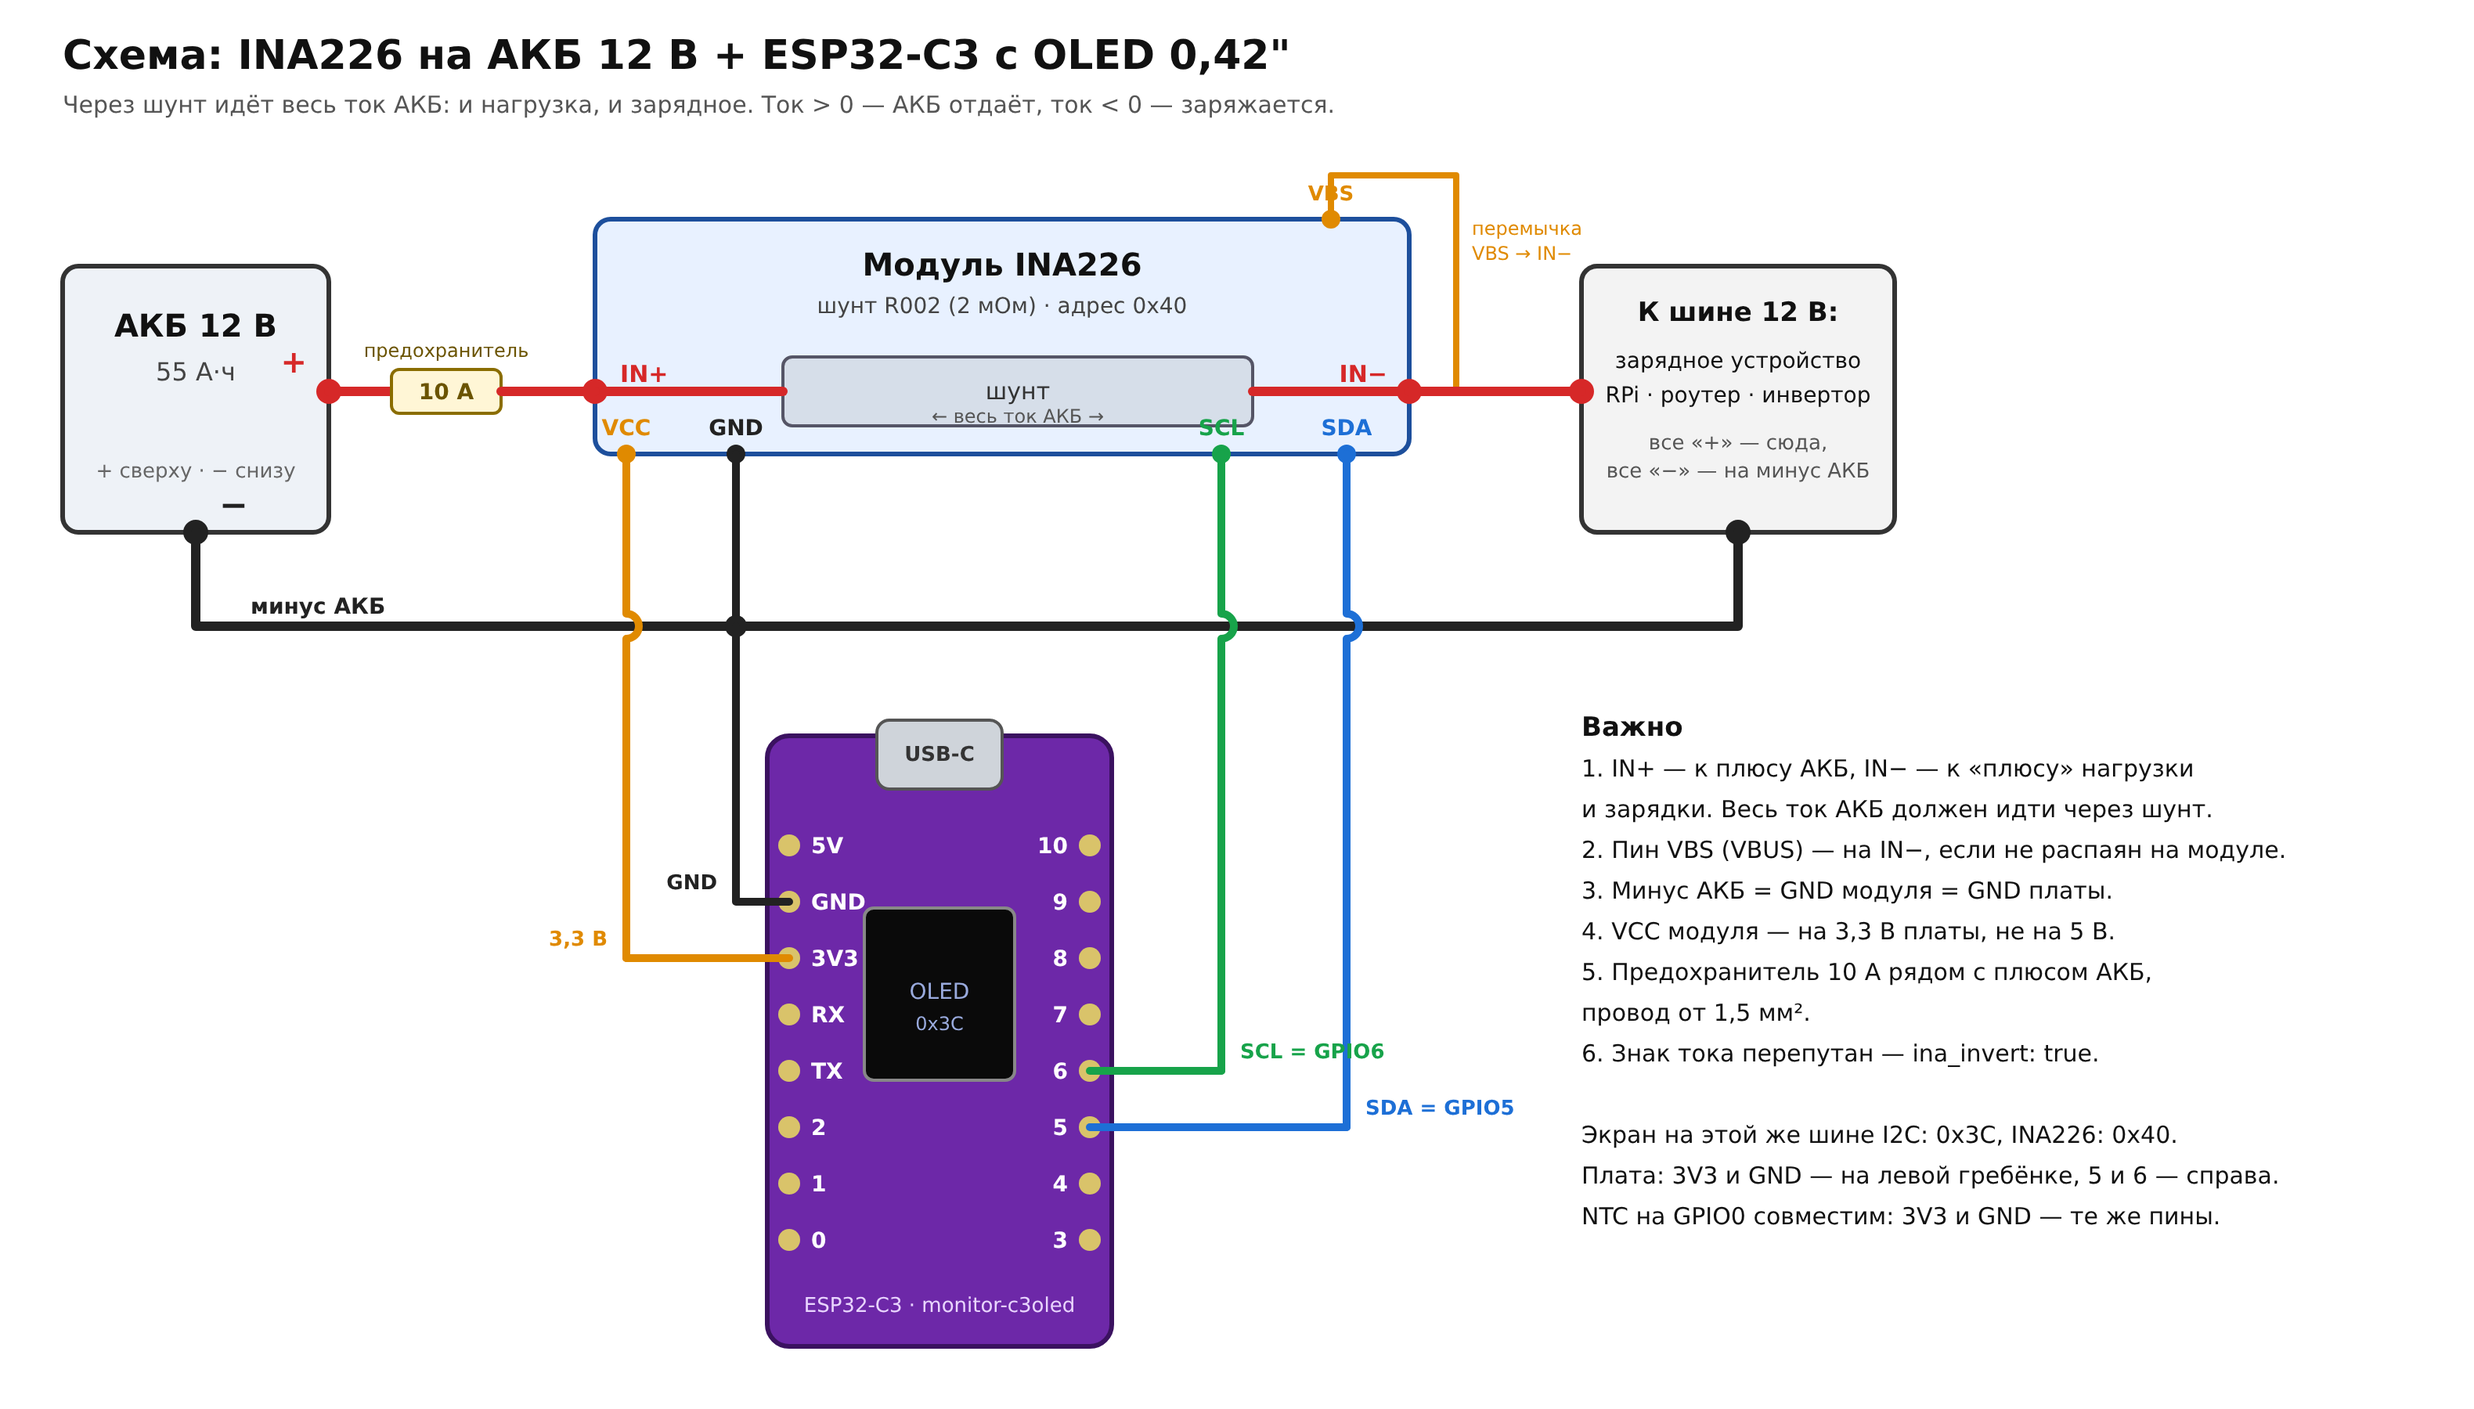
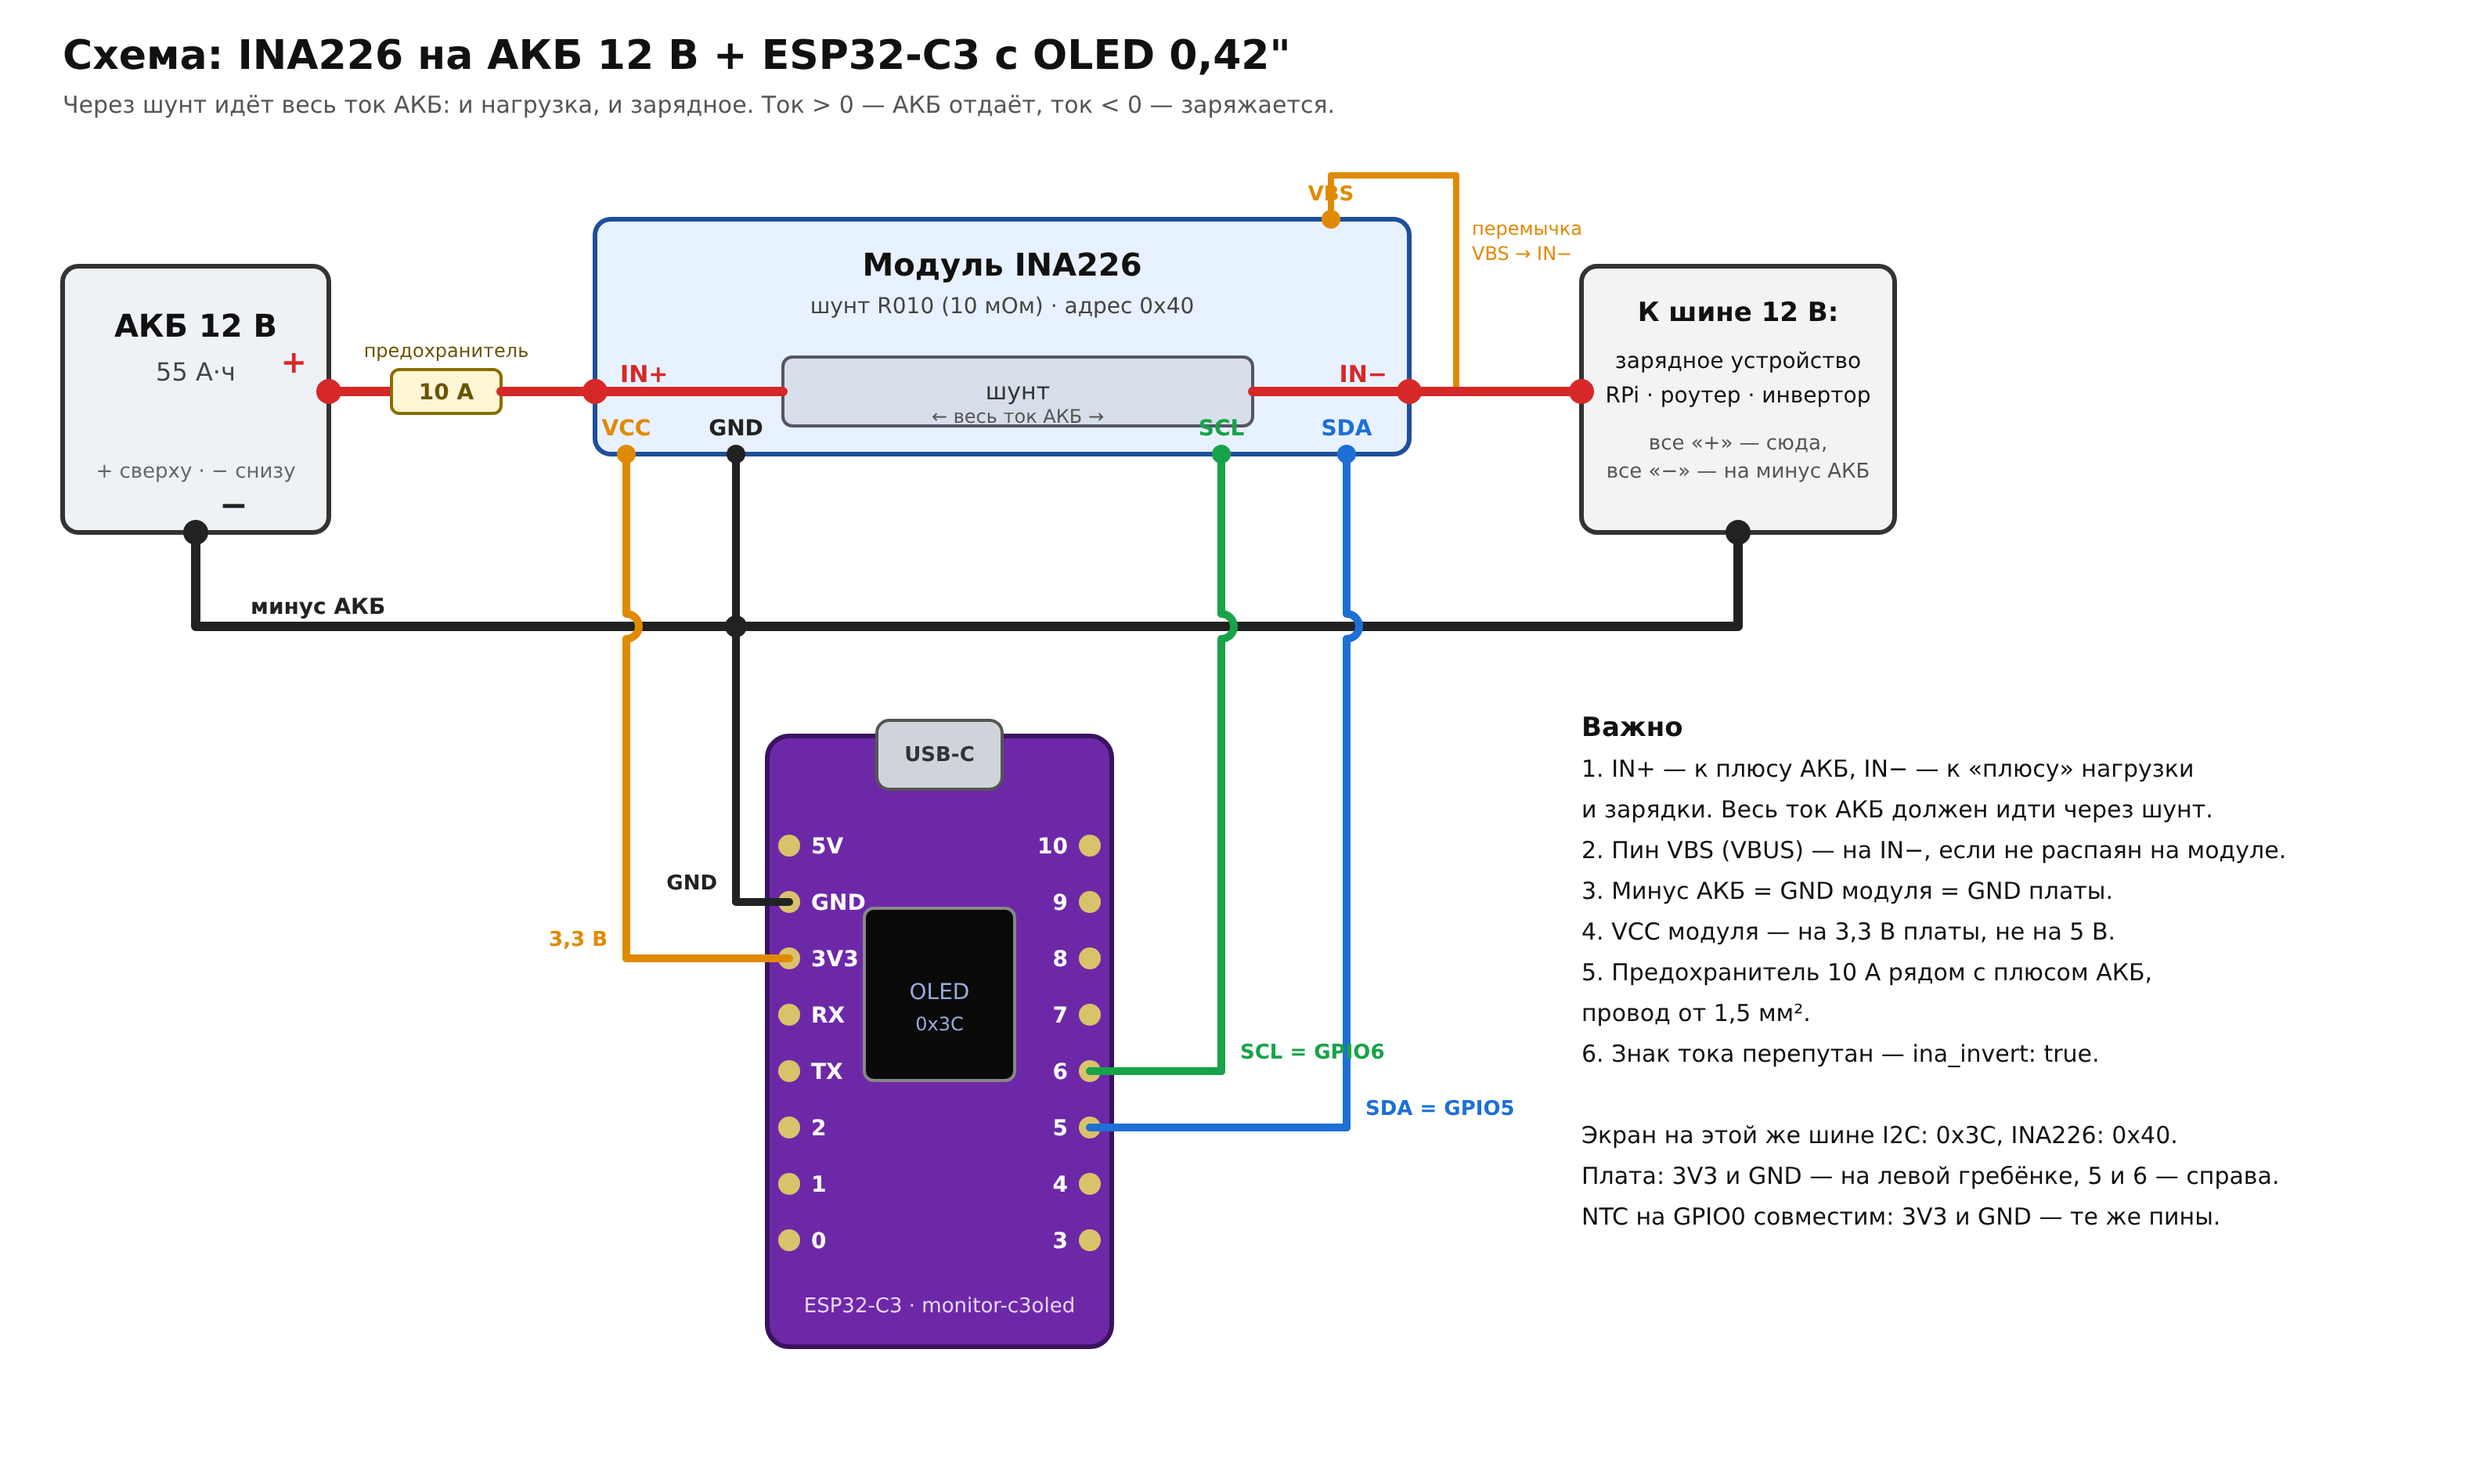
INA226: the default shunt is 10 mOhm (R010), the module sold most often
Claude-Session: https://claude.ai/code/session_01EDqfk9jk64T1fpiWr89srt

diff --git a/firmware/lib/hornet-core/src/Ina226.h b/firmware/lib/hornet-core/src/Ina226.h
@@ -19,9 +19,10 @@
 #ifndef HW_INA_ADDR
 #define HW_INA_ADDR 0x40
 #endif
-// The shunt of the common blue INA226 module is marked R002 (2 mOhm); some have R010 (10 mOhm), set hw.ina_shunt_mohm.
+// The shunt of the common blue INA226 module is marked R010 (10 mOhm, up to +-8 A); with R002 (2 mOhm) set
+// hw.ina_shunt_mohm = 2. R100 (0.1 Ohm) is good only up to 0.8 A.
 #ifndef HW_INA_SHUNT_MOHM
-#define HW_INA_SHUNT_MOHM 2.0
+#define HW_INA_SHUNT_MOHM 10.0
 #endif
 
 namespace hornet {

diff --git a/firmware/README.md b/firmware/README.md
@@ -68,7 +68,7 @@ DS18B20 needs a 4.7 kΩ pull-up from data to 3.3 V (the ready-made modules have 
   NTC is the thermometer: read on `hw.ntc_pin` or A0 (GPIO0 on the C3), published as `temperature`. Wiring: docs/ntc-thermistor.md.
 - INA226 (monitor): a battery's voltage and current on the I2C bus of the screen (GPIO5/GPIO6), found by itself at boot.
   Published as `battery_voltage` (V), `battery_current` (A, plus = the battery gives), `battery_power` (W) and
-  `battery_ah` (Ah out since full). Config `hw.ina_addr`, `ina_shunt_mohm` (default 2), `ina_invert`, `ina_full_v`,
+  `battery_ah` (Ah out since full). Config `hw.ina_addr`, `ina_shunt_mohm` (default 10), `ina_invert`, `ina_full_v`,
   `ina_full_a`. Wiring: docs/ina226-battery.md.
 - **monitor** (`monitor-c3oled`): a screen that measures nothing itself. It draws the texts the hive publishes to
   `vs/v1/hive/display/{id}` for the readings chosen on the device page, "Экран" (config `display.items`, up to four
